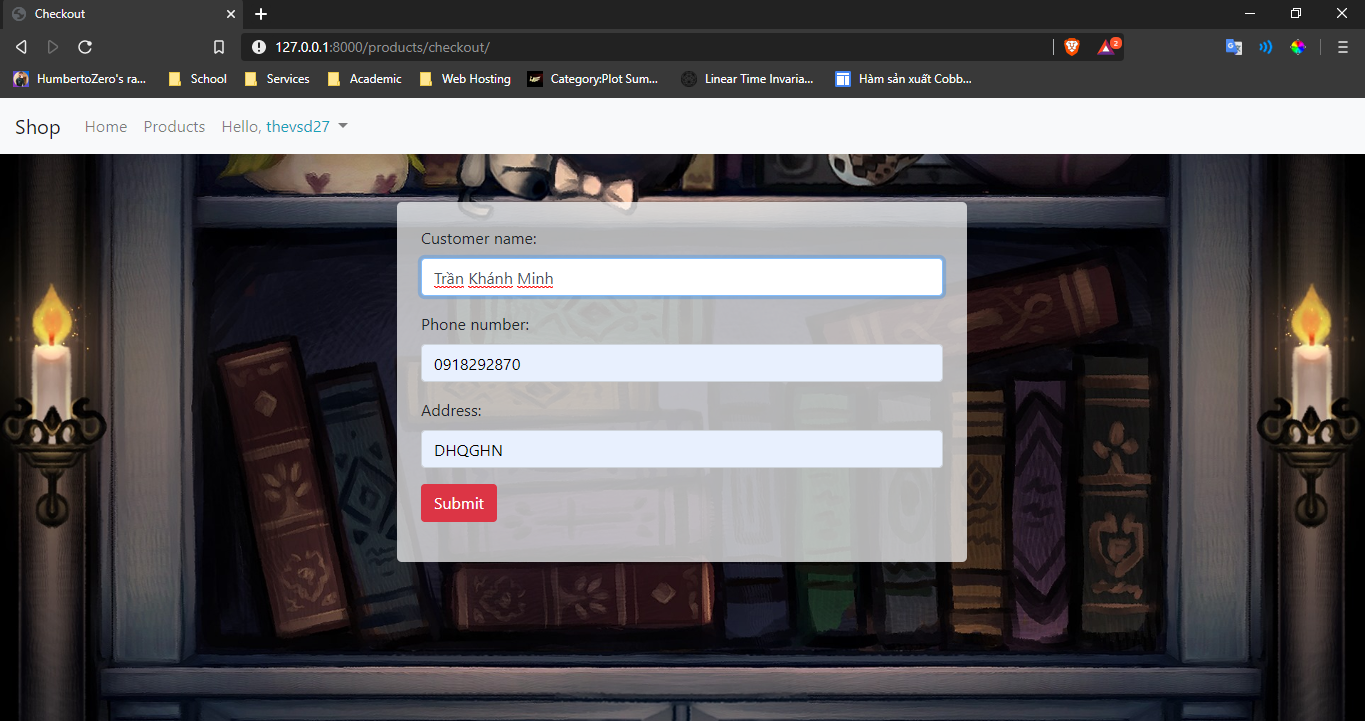
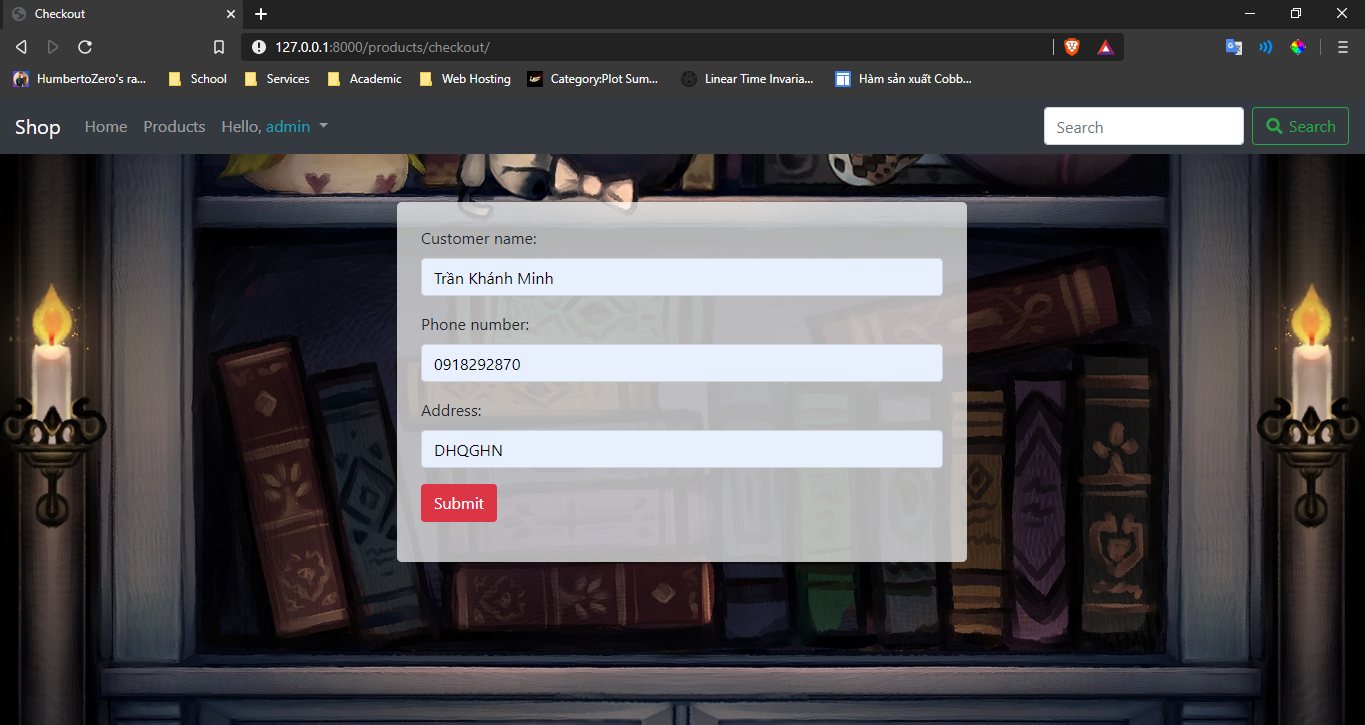
merge

diff --git a/README.md b/README.md
@@ -40,6 +40,13 @@ SELECT * FROM `orderDJ` WHERE `user` = request.user.username
 - Thêm chi tiết vào bảng orderDJ: </br>
 INSERT INTO orderDJ(`user`, `customer_name`, `address`, `phone`, `total_price`)</br>
 VALUES (user, customer_name, address, phone, total_price)
+- Tìm kiếm món hàng theo định dạng tên hàng: </br>
+SELECT * FROM `products` </br> 
+WHERE UPPER(`products`.`productName`::text) LIKE UPPER(%adidas%)
+- Lọc hàng mà không Out Of Stock: </br>
+SELECT * FROM `products` WHERE NOT (`products`.`quantityInStock` = 0)
+- Sắp xếp vị trí món hàng theo bảng chữ cái: </br>
+SELECT * FROM `products` ORDER BY `products`.`productName` ASC
 
 ## Quá trình phát triển
 - Định hình mục tiêu là làm web bán giày và nền tảng cho nó là Django
